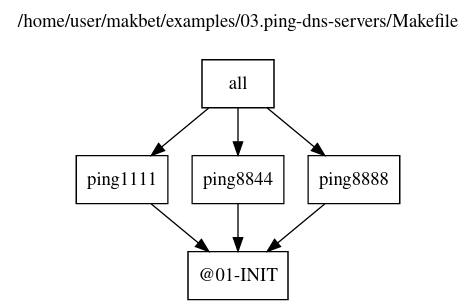
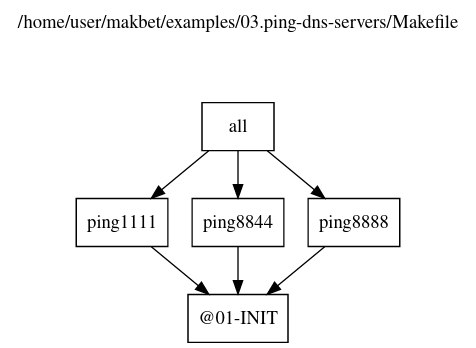
[DEV] Add two empty lines to DOT graph title

Changed region(s): [[0.1471, 0.177, 0.8529, 0.9443], [0.0294, 0.0295, 0.9706, 0.118], [0.3824, 0.9738, 0.6176, 1.0]]

diff --git a/README.rst b/README.rst
@@ -179,7 +179,7 @@ results which can be used for further processing:
 
     // Graph title.
     labelloc="t";
-    label="/home/user/makbet/examples/01.dummy/Makefile\n\n"
+    label="/home/user/makbet/examples/01.dummy/Makefile\n\n\n\n"
 
     // Node options.
     node [shape=box];
